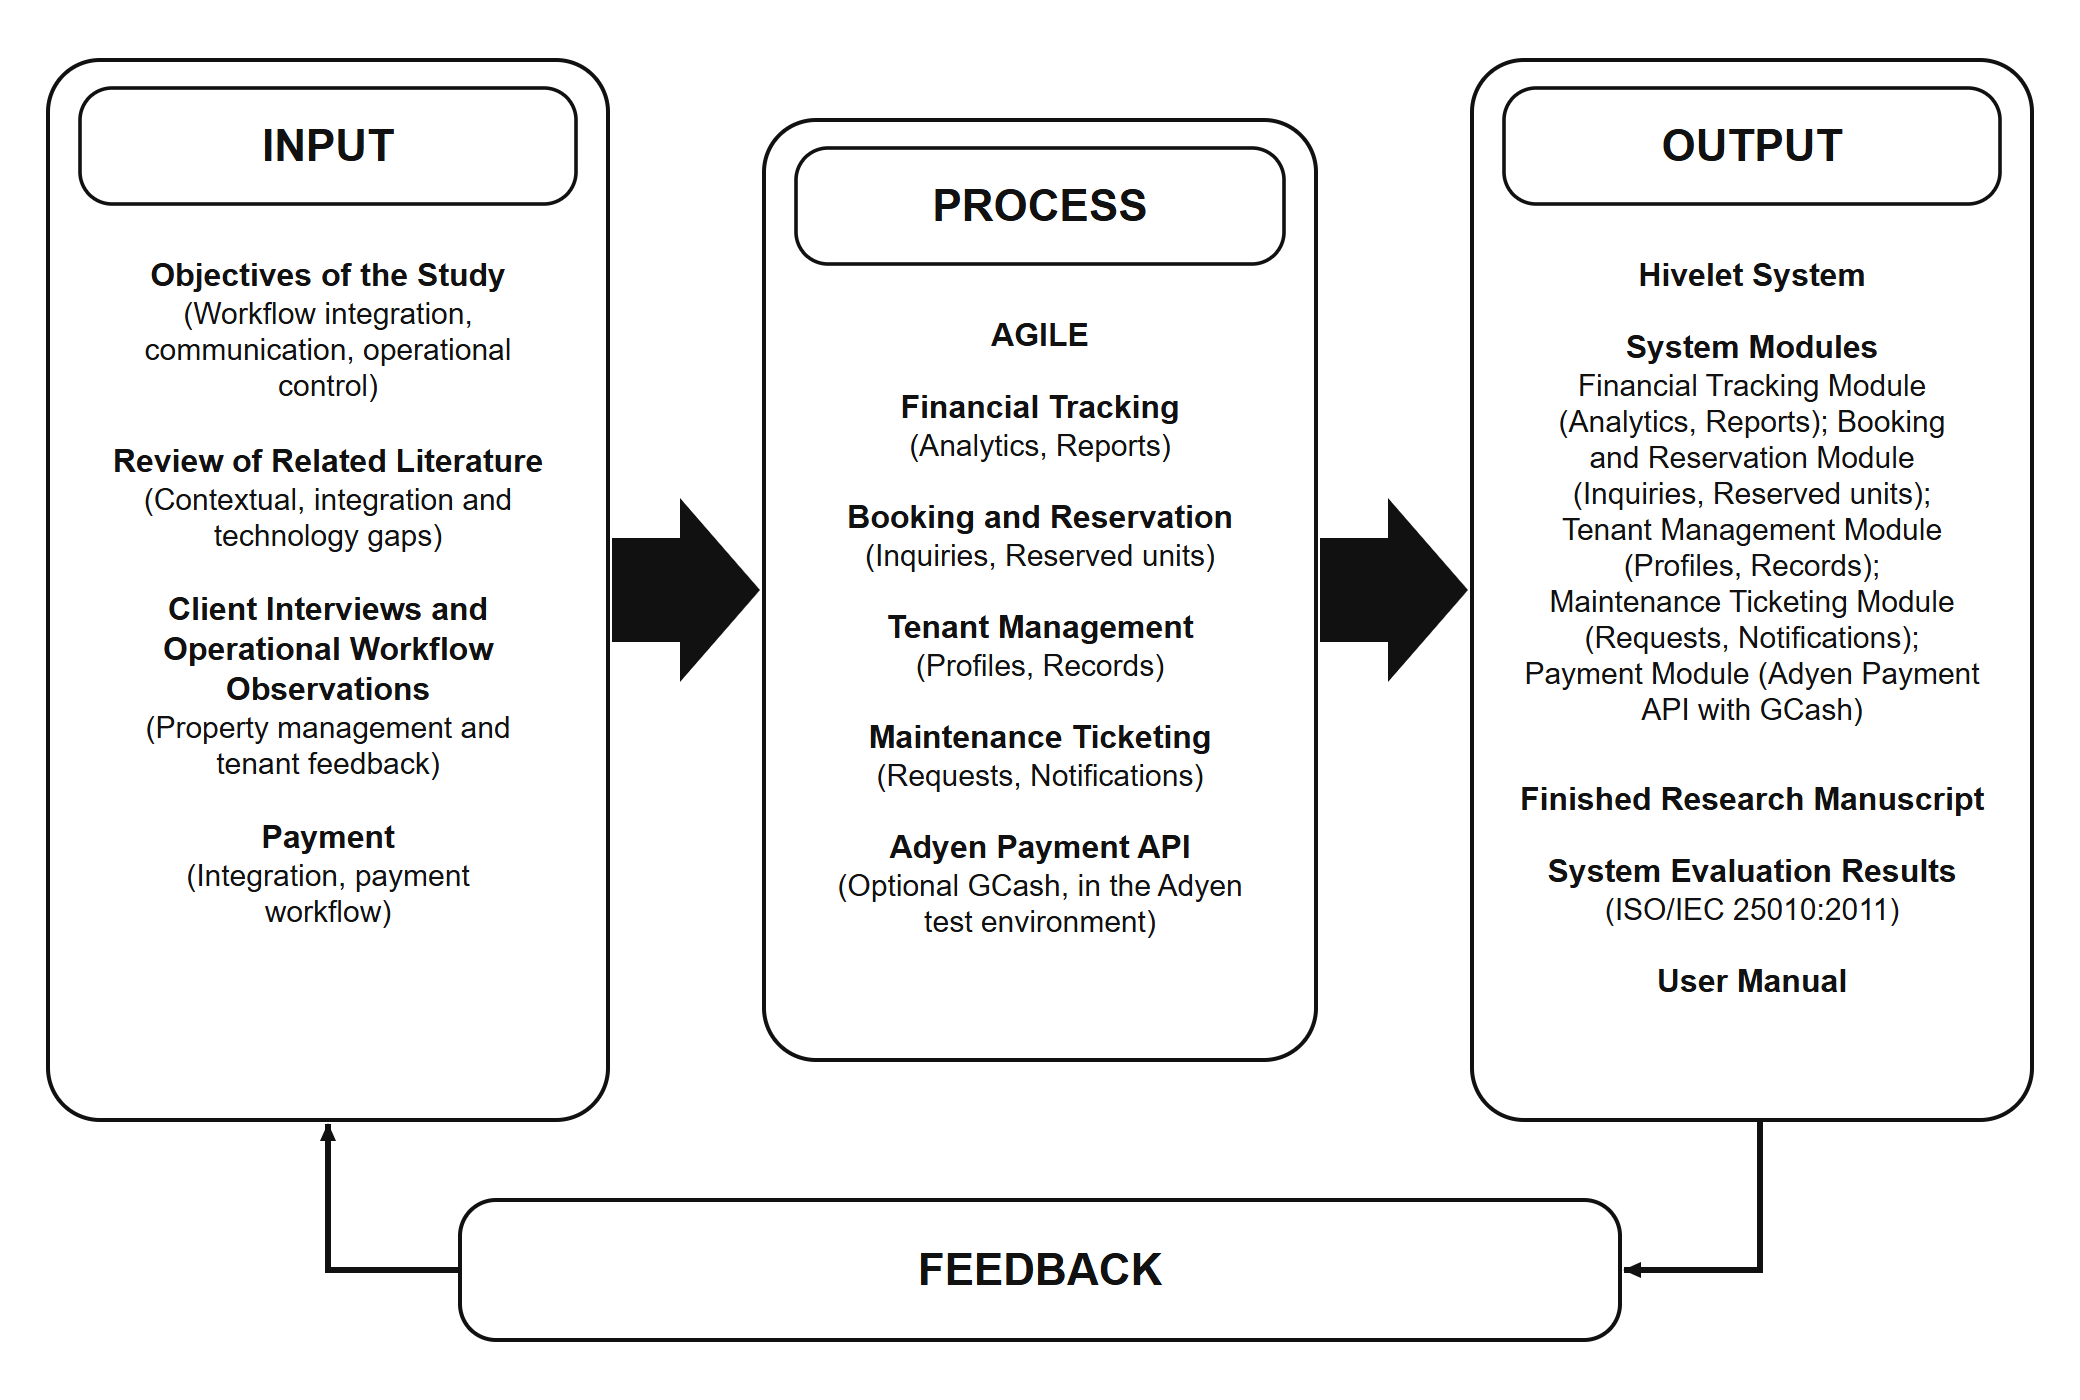
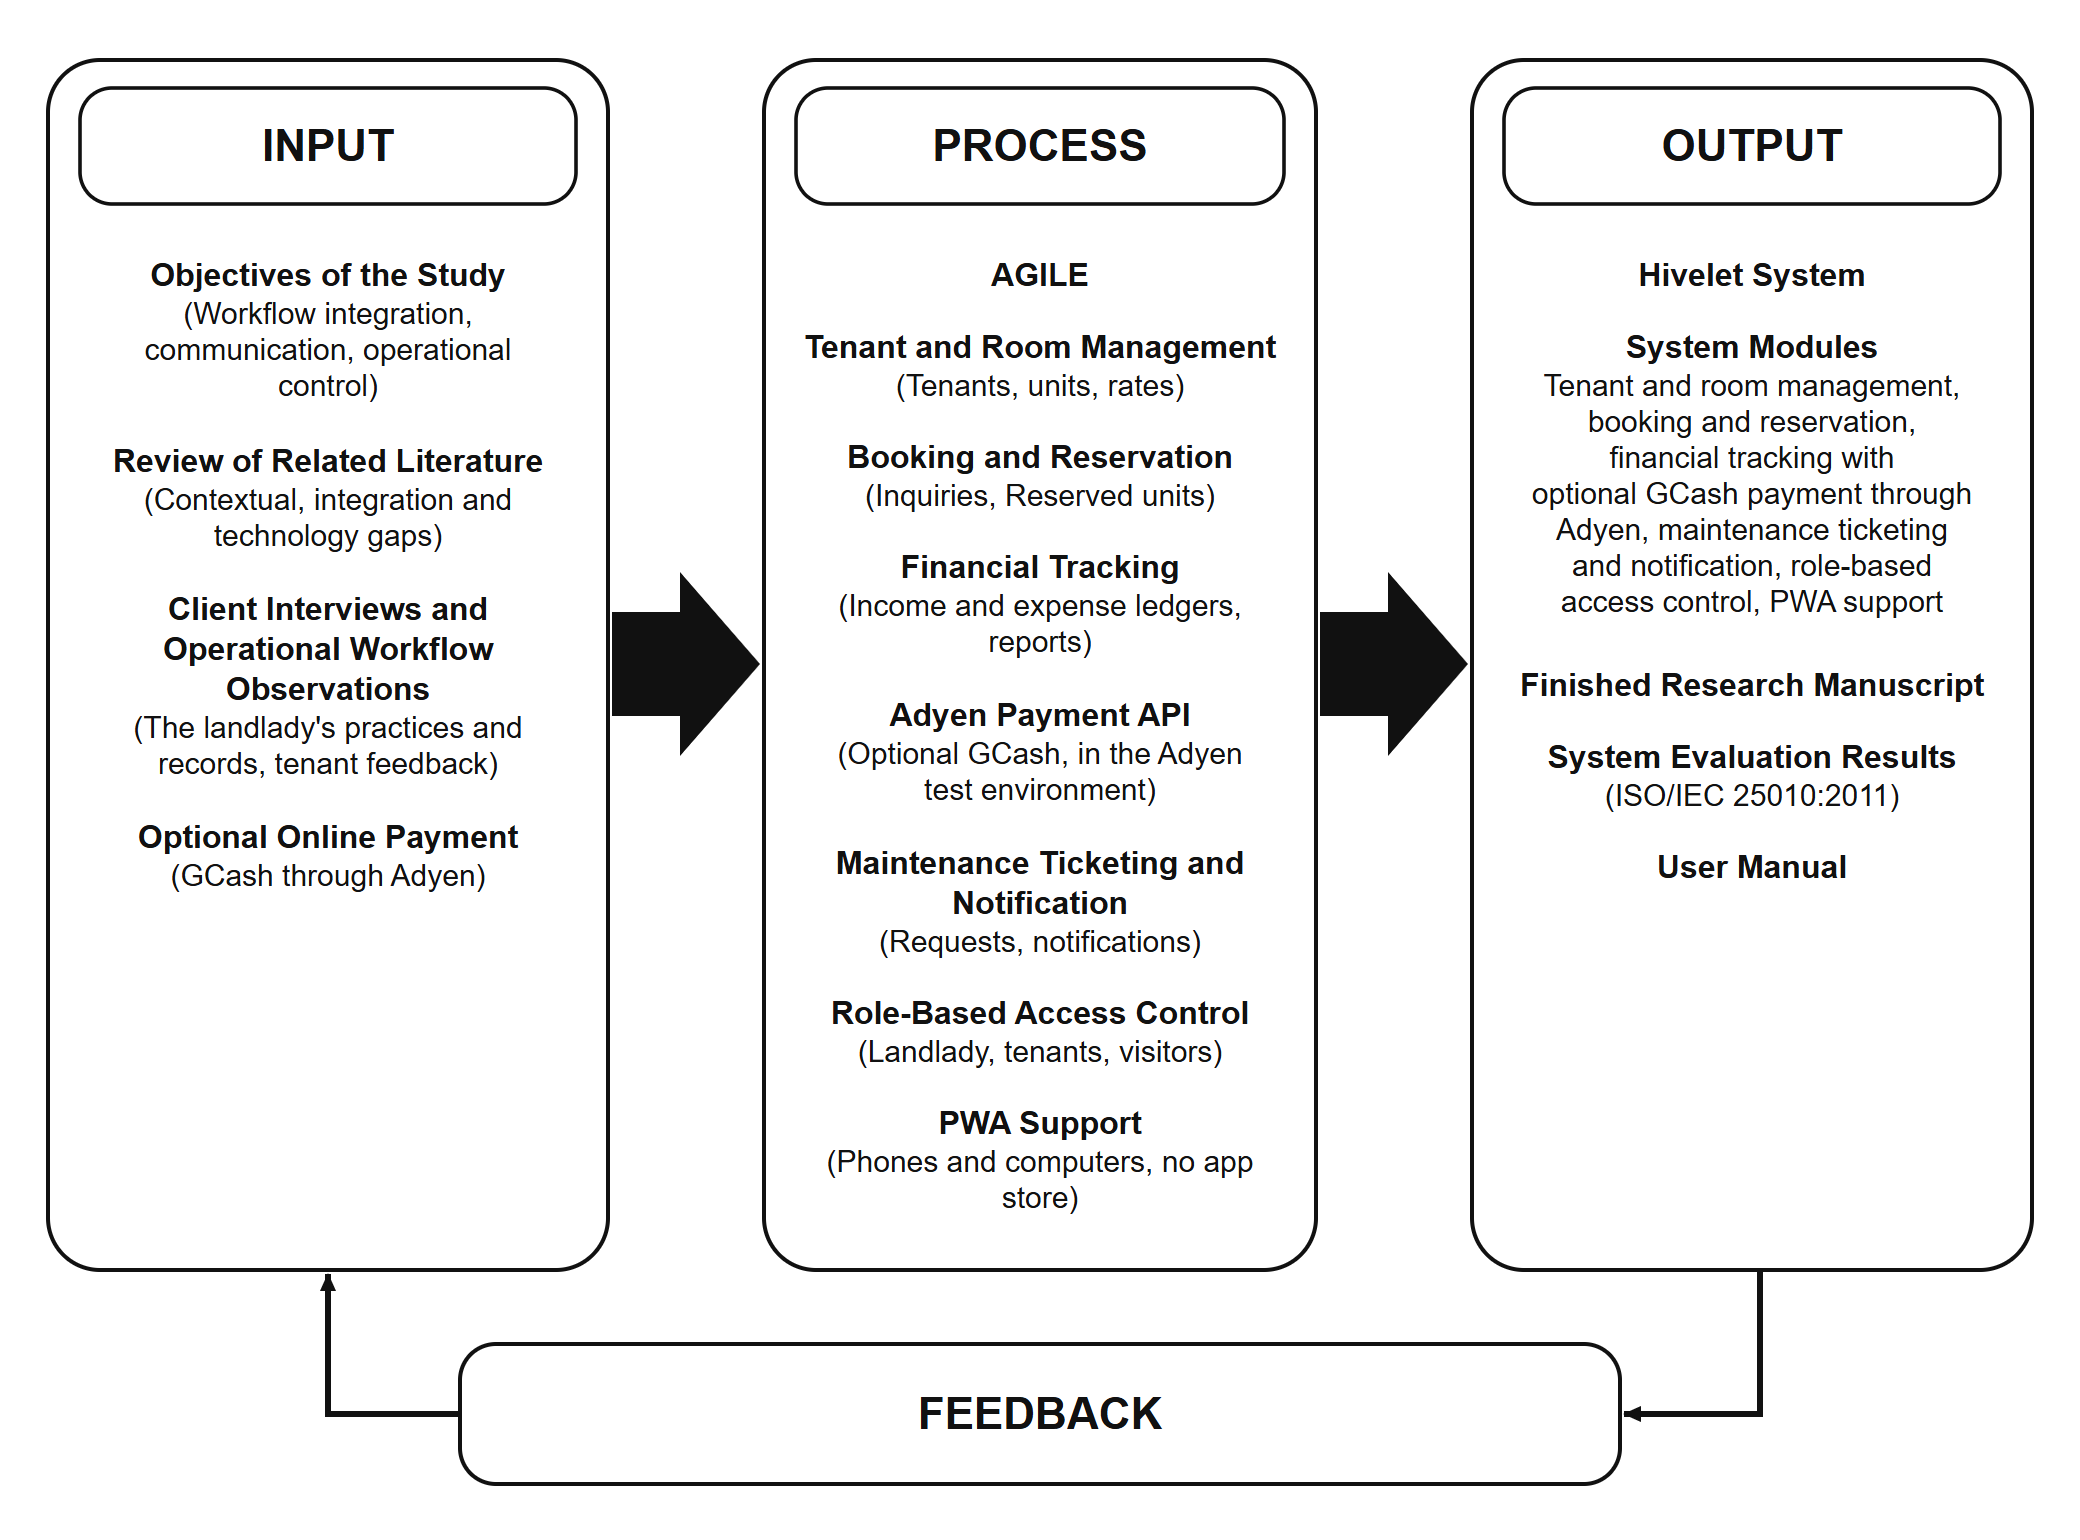
Figure 2-2 names the six features of Objective 2
Sean asked for the framework's wording to be checked against the system.
Its Process and Output listed five modules: role-based access control and
PWA support were missing, "Tenant Management (Profiles, Records)" left out
the rooms, and "Financial Tracking (Analytics, Reports)" claimed more than
the ledgers do. Now: Tenant and Room Management, Booking and Reservation,
Financial Tracking (income and expense ledgers, reports), the Adyen Payment
API, Maintenance Ticketing and Notification, Role-Based Access Control and
PWA Support. Input names the landlady's records and the optional GCash
payment. Adyen was already spelled right here; the misspelling is in the old
figure in the team's Word file. Section 2.3 and the walkthrough follow.

diff --git a/FINAL/_src/CHAPTER_2.md b/FINAL/_src/CHAPTER_2.md
@@ -217,16 +217,18 @@ which maps how inputs are transformed into outputs.
 ![Conceptual framework](figures/figure-2-2-conceptual-framework.png)
 
 In this study, the Input phase consists of the study objectives, review of related literature, client
-interviews, needfinding observations, and analysis of existing administrative and payment workflows.
+interviews, needfinding observations, analysis of the landlady's existing administrative and payment
+workflows and records, and the requirement for an optional online payment through GCash.
 From these inputs, the researchers identified the operational gaps, user requirements, and system
 constraints of the boarding house.
 
 The Process phase applies the Agile Software Development Life Cycle, with iterative stages of
 requirements, design, development, testing, deployment, and review (Section 3.2). Within this phase,
-the system modules are implemented: financial tracking (analytics and reports), booking and
-reservation management (inquiries and reservations), tenant management (profiles and records),
-maintenance ticketing (requests and notifications), and an optional online payment integration using
-the Adyen API with GCash.
+the six features named in Objective 2 are implemented: tenant and room management (tenants, units and
+rates), booking and reservation management (inquiries and reserved units), financial tracking (income
+and expense ledgers and reports) with an optional online payment integration using the Adyen API
+with GCash, maintenance ticketing and notification, role-based access control for the landlady,
+tenants and visitors, and Progressive Web Application support.
 
 The Output phase includes the developed Hivelet system, its functional modules, and generated
 outputs such as financial reports exportable as Excel files, inquiry and tenancy records, and payment

diff --git a/FINAL/STUDY_GUIDE_PAPER_WALKTHROUGH.md b/FINAL/STUDY_GUIDE_PAPER_WALKTHROUGH.md
@@ -416,12 +416,14 @@ For each reference in depth, see [STUDY_GUIDE_REFERENCES.md](STUDY_GUIDE_REFEREN
 - *What it shows*: three boxes, **Input**, **Process** and **Output**, joined by arrows, with a
   **Feedback** box returning from Output to Input.
 - *How to read it*:
-  - **Input**: the objectives of the study; the review of related literature; client interviews and
-    observations of the workflow; and payment (integration and payment workflow).
-  - **Process**: **Agile**, in which the modules are built: Financial Tracking (Analytics, Reports),
-    **Booking and Reservation (Inquiries, Reserved units)**, Tenant Management (Profiles, Records),
-    Maintenance Ticketing (Requests, Notifications) and the Adyen Payment API (Optional GCash, in the
-    Adyen test environment).
+    - **Input**: the objectives of the study; the review of related literature; client interviews and
+    observations of the workflow (the landlady's practices and records, tenant feedback); and the
+    optional online payment (GCash through Adyen).
+  - **Process**: **Agile**, in which the six features of Objective 2 are built: Tenant and Room
+    Management, **Booking and Reservation (Inquiries, Reserved units)**, Financial Tracking (income
+    and expense ledgers, reports), the Adyen Payment API (Optional GCash, in the Adyen test
+    environment), Maintenance Ticketing and Notification, Role-Based Access Control and PWA Support.
+    Redrawn 13 November so the figure names all six (it had left out role-based access and PWA).
   - **Output**: the Hivelet system and its modules, the finished research manuscript, the system
     evaluation results (ISO/IEC 25010:2011) and the user manual.
   - **Feedback**: refinement in every phase from user evaluation and performance.
